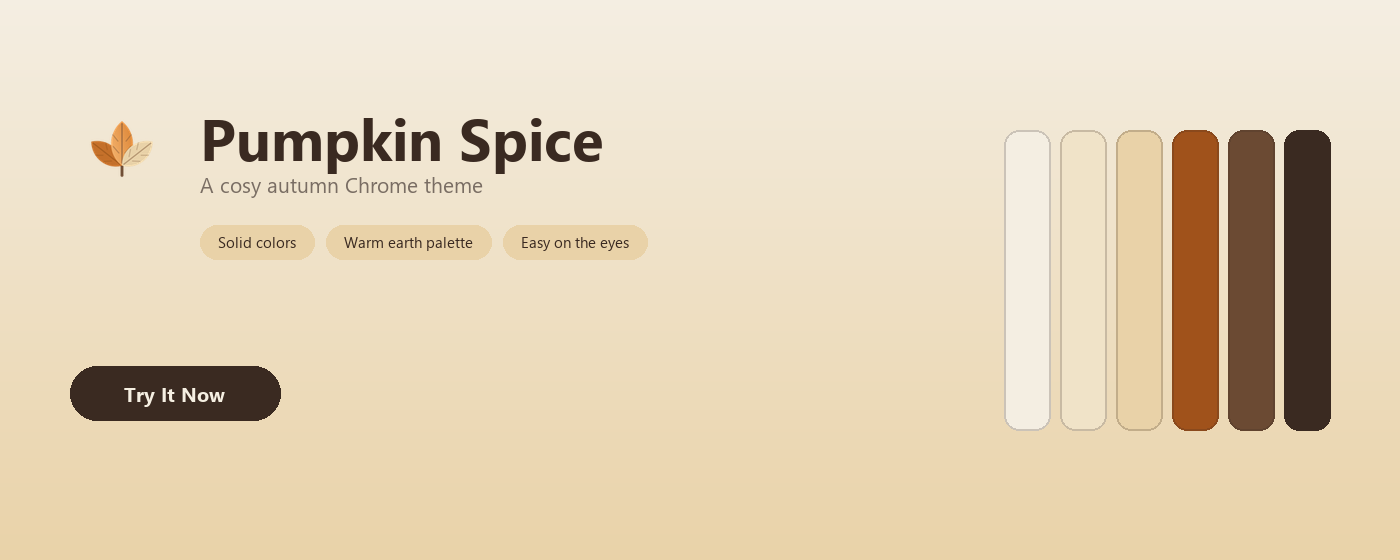
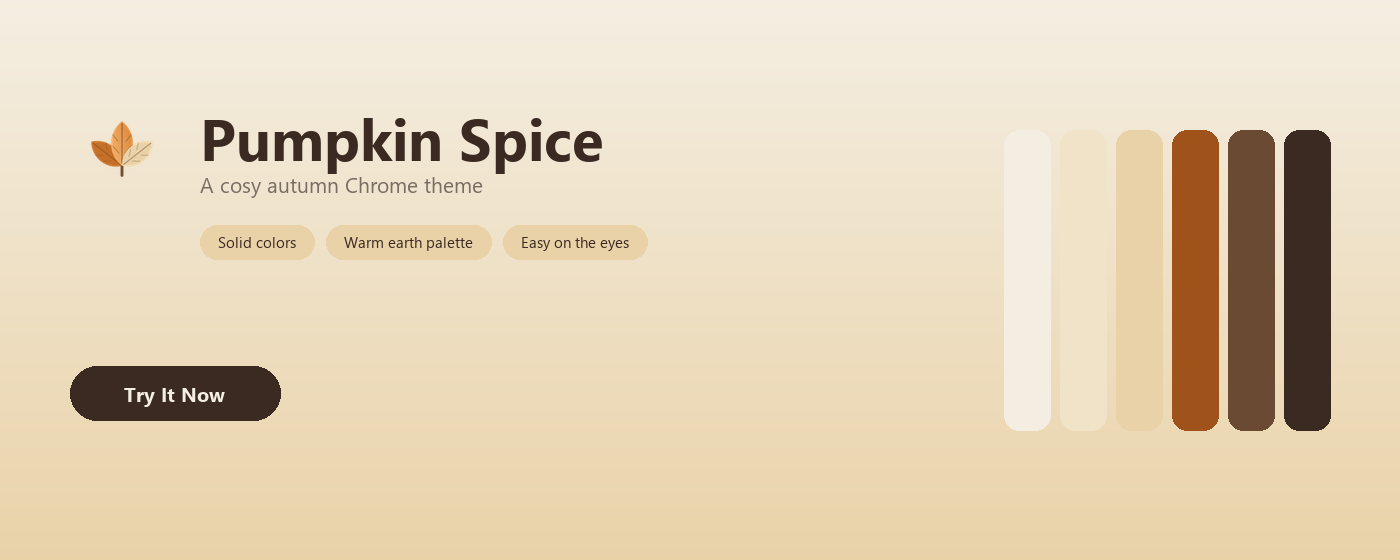
promo 色块去掉描边 + 商店说明改为与实物一致的表述
- generate-promo.py：色块改为纯平涂（去掉 2px 描边），并按用户截图反馈重出 440x280 / 1400x560
- store-description.txt：原句 "Espresso ink keeps every tab, bookmark, and icon crisp against the pale surfaces" 与实物相反，改为深色 chrome 用奶油字、浅色页面用深字
- 两个 PIL 素材脚本新增 save_png：中文路径下 PIL 间歇 Errno 22，改为重试保存

Changed region(s): [[0.7986, 0.7589, 0.8293, 0.7893], [0.7986, 0.2125, 0.8293, 0.2429]]

diff --git a/scripts/generate-promo.py b/scripts/generate-promo.py
@@ -8,6 +8,7 @@ overflow fails loudly at generation time.
 """
 import json
 import os
+import time
 from pathlib import Path
 
 from PIL import Image, ImageDraw, ImageFont
@@ -16,6 +17,23 @@ ROOT = Path(__file__).resolve().parent.parent
 os.chdir(str(ROOT))                      # relative paths only (non-ASCII path safety)
 
 OUT_DIR = "store-assets/promo"
+
+
+def save_png(img, path, tries=5):
+    """PIL intermittently raises OSError [Errno 22] on this non-ASCII project path.
+
+    Observed on Windows: the very same save() succeeds on one run and fails on the
+    next, so retry a few times instead of crashing the whole generation.
+    """
+    last = None
+    for i in range(tries):
+        try:
+            img.save(path)
+            return
+        except OSError as exc:            # pragma: no cover - environment specific
+            last = exc
+            time.sleep(0.35 * (i + 1))
+    raise last
 
 
 def rgb(vals):
@@ -76,8 +94,8 @@ def compose(size, geom, colors):
     bx, by = RIGHT - bars_w, geom["bar_y"]
     for i, col in enumerate(bar_colors):
         x0 = bx + i * (bw + bgap)
-        d.rounded_rectangle([x0, by, x0 + bw, by + geom["bar_h"]], radius=bw // 3,
-                            fill=col, outline=lerp(col, ink, 0.22), width=2)
+        # no outline: the bars read as flat paint chips (user request 2026-10-16)
+        d.rounded_rectangle([x0, by, x0 + bw, by + geom["bar_h"]], radius=bw // 3, fill=col)
     assert bx + bars_w <= RIGHT, "palette bars overflow the right margin"
 
     lsize = geom["logo"]
@@ -145,7 +163,7 @@ def main():
     for size, geom in (((1400, 560), LARGE), ((440, 280), SMALL)):
         img, boxes = compose(size, geom, c)
         out = "%s/%dx%d.png" % (OUT_DIR, size[0], size[1])
-        img.save(out)
+        save_png(img, out)
         print("saved:", out, img.size, img.mode, "cta:", boxes["btn"], "bars:", boxes["bars"])
 
 

diff --git a/scripts/generate-screenshot-2-palette.py b/scripts/generate-screenshot-2-palette.py
@@ -8,12 +8,26 @@ from manifest.json; the sheet is re-drawn from scratch on every run.
 """
 import json
 import os
+import time
 from pathlib import Path
 
 from PIL import Image, ImageDraw, ImageFont
 
 ROOT = Path(__file__).resolve().parent.parent
 os.chdir(str(ROOT))                      # relative paths only (non-ASCII path safety)
+
+
+def save_png(img, path, tries=5):
+    """PIL intermittently raises OSError [Errno 22] on this non-ASCII project path."""
+    last = None
+    for i in range(tries):
+        try:
+            img.save(path)
+            return
+        except OSError as exc:            # pragma: no cover - environment specific
+            last = exc
+            time.sleep(0.35 * (i + 1))
+    raise last
 
 OUT = "store-assets/screenshots/en/screenshot-2-palette.png"
 W, H = 1280, 800
@@ -109,7 +123,7 @@ def main():
     assert chip_y + 44 <= H - 12, "footer chips too close to the canvas bottom"
 
     os.makedirs(os.path.dirname(OUT), exist_ok=True)
-    img.save(OUT)
+    save_png(img, OUT)
     print("saved:", OUT, img.size, img.mode, "| last swatch right:", last_right)
 
 
